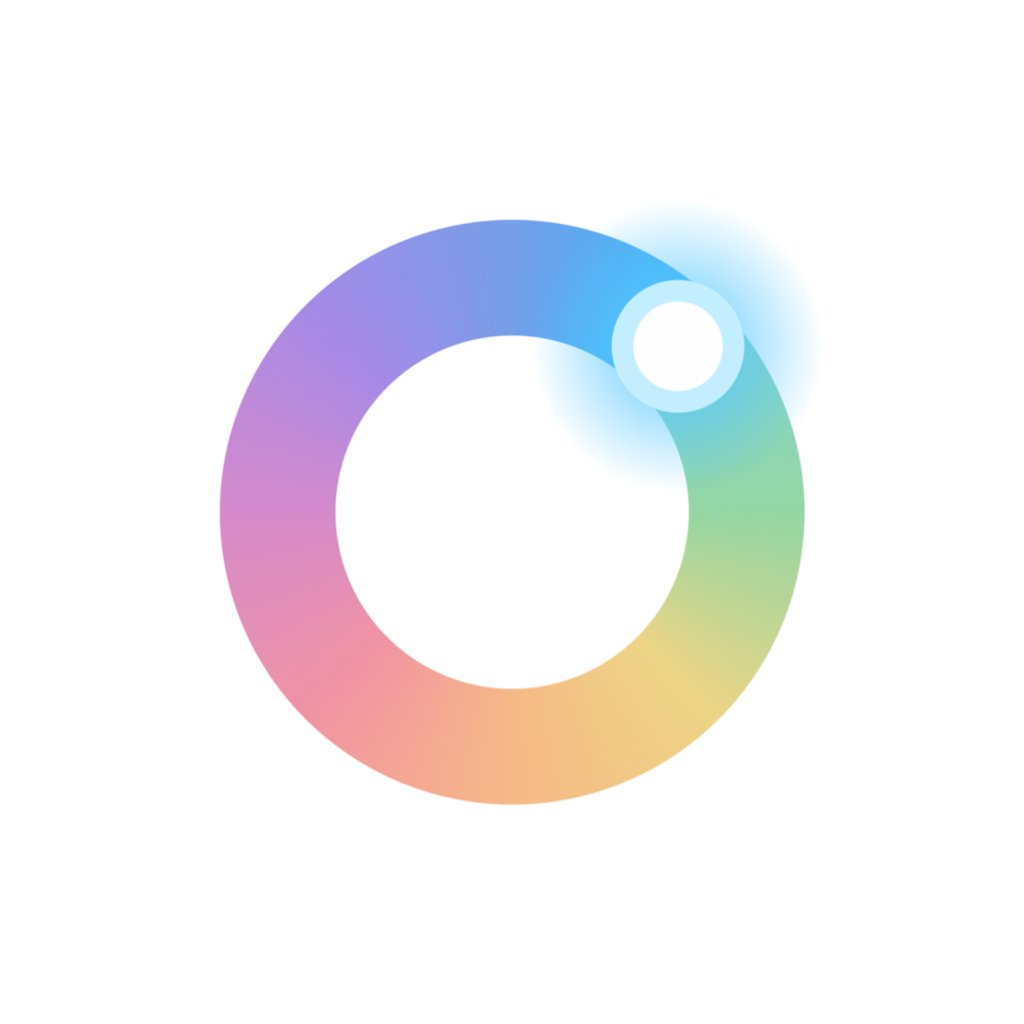
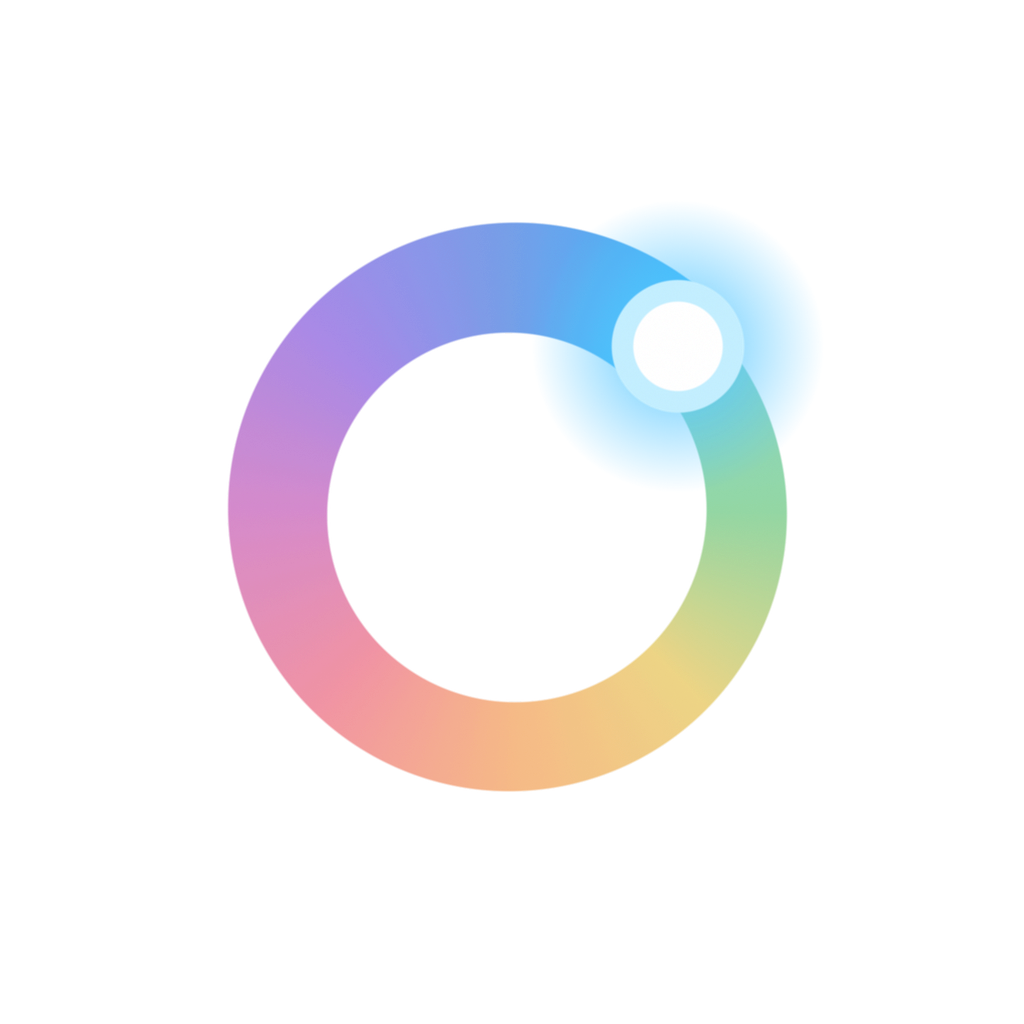
图标环宽退回渐变式，保持无光点

diff --git a/assets/render_icon.py b/assets/render_icon.py
@@ -21,7 +21,7 @@ CX = CY = S / 2
 R = 304.0 * 2
 HEAD_DEG = -45.0
 TAIL_SWEEP = 360.0
-W_BAND = 150.0 * 2
+W_HEAD, W_TAIL = 150.0 * 2, 100.0 * 2
 EDGE = 2.4                # soft-edge half-width in supersampled pixels
 
 # The first icon's colour wheel, saturated a touch: hues spaced evenly
@@ -51,11 +51,12 @@ in_tail = delta <= TAIL_SWEEP
 tc = np.clip(t, 0.0, 1.0)
 
 # --- ring band ---------------------------------------------------------------
-# Constant width around the full circle; where t wraps from 1 back to 0 the
-# opacity steps, but that seam sits exactly at the head's angular position
-# and the opaque head disc covers it.
+# The band spans the full circle; where t wraps from 1 back to 0 the width and
+# opacity step, but that seam sits exactly at the head's angular position and
+# the opaque head disc covers it.
+width = W_TAIL + (W_HEAD - W_TAIL) * tc ** 1.2
 dist = np.abs(r - R)
-coverage = np.clip((W_BAND / 2 + EDGE - dist) / (2 * EDGE), 0.0, 1.0)
+coverage = np.clip((width / 2 + EDGE - dist) / (2 * EDGE), 0.0, 1.0)
 fade = 0.72 + 0.28 * tc ** 1.3
 tail_a = np.where(in_tail, coverage * fade, 0.0)
 
